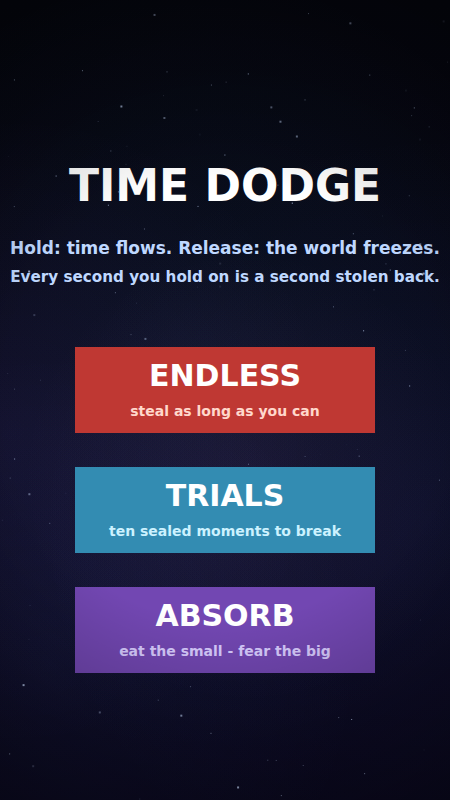
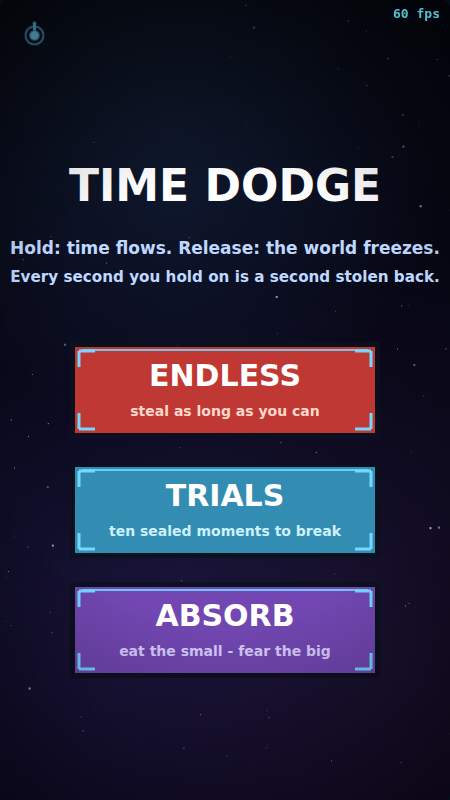
feat(timedodge): realistic particles, starship UI + sfx, heavier collisions
Polish round on the standalone Time Dodge (per the art/UI/feel asks).

Particles (engine.js) — replaced the flat additive squares with two real looks:
soft additive GLOW discs (pre-rendered, tinted+cached per colour) for sparks/
embers/splash, and solid SPINNING bits for confetti/debris, with velocity drag
so they settle. New "debris" preset for impacts. Explosions now read as light +
shrapnel, not squares.

Starship-console UI — mode-select buttons get a consistent sci-fi frame (dark
bezel seat, cyan top hairline, four inward corner brackets) over the colour-coded
faces; text auto-fits so nothing clips. Synthesized console UI sounds in engine.js
(ui_tap / ui_confirm / ui_back — square+harmonic blips, no asset) wired to every
button/menu/card/dialog interaction in timedodge.lua.

Collision feel — death is now a full-force impact: max shake + zoom, a layered
debris+spark burst, strong haptic; near-miss, gate capture and the ABSORB chip
all hit harder (bigger shake, medium/heavy haptic, debris/splash). engine.js
haptic patterns are punchier (heavy = a triple buzz).

All gated where needed so native/web are unaffected: the invariant suite still
passes (144952) and the "debris" preset falls back to spark on the native
particle backend. Standalone bundle rebuilt (~2MB).

Verified headless: framed mode-select, glow+debris death burst, 60fps, no errors.

Claude-Session: https://claude.ai/code/session_01S1VWoFaZm6tKkz28VdLcnu

diff --git a/miniprogram/tiktok-lua/engine.js b/miniprogram/tiktok-lua/engine.js
@@ -42,18 +42,22 @@
   var STARS = makeStars(140);
   var NEBULA = makeNebula(5);
 
-  // ---- particles (native parity: presets + 512 cap) -------------------------
+  // ---- particles ------------------------------------------------------------
+  // Two looks: soft additive GLOW discs (sparks/embers/splash — real light) and
+  // solid spinning BITS (confetti/debris). Presets carry native's 4 names plus a
+  // grey "debris" burst for impacts. drag slows them so they settle, not fly flat.
   var PCAP = 512, parts = [];
   var PRESETS = {
-    spark:    { speed: [180, 320], grav: -300, ttl: 0.40, size: 5, up: false, count: 16,
-                cols: [[1.0, 0.8, 0.3], [1.0, 0.55, 0.2]] },
-    dust:     { speed: [30, 90],   grav: -60,  ttl: 0.70, size: 4, up: false, count: 14,
+    spark:    { speed: [200, 360], grav: -260, drag: 2.2, ttl: 0.45, size: 6, up: false, count: 18, glow: true,
+                cols: [[1, 0.85, 0.35], [1, 0.6, 0.2], [1, 0.95, 0.7]] },
+    dust:     { speed: [30, 100],  grav: -40,  drag: 1.6, ttl: 0.80, size: 7, up: false, count: 14, glow: true,
                 cols: [[0.62, 0.55, 0.45], [0.72, 0.66, 0.55]] },
-    confetti: { speed: [120, 260], grav: -220, ttl: 1.20, size: 6, up: true,  count: 20,
-                cols: [[0.95, 0.35, 0.45], [0.35, 0.75, 0.95], [0.95, 0.85, 0.35],
-                       [0.55, 0.9, 0.5], [0.8, 0.5, 0.95]] },
-    splash:   { speed: [140, 280], grav: -500, ttl: 0.50, size: 4, up: true,  count: 18,
+    confetti: { speed: [140, 300], grav: -260, drag: 0.6, ttl: 1.30, size: 7, up: true,  count: 24, glow: false,
+                cols: [[0.95, 0.35, 0.45], [0.35, 0.75, 0.95], [0.95, 0.85, 0.35], [0.55, 0.9, 0.5], [0.8, 0.5, 0.95]] },
+    splash:   { speed: [150, 300], grav: -460, drag: 1.0, ttl: 0.55, size: 5, up: true,  count: 20, glow: true,
                 cols: [[0.5, 0.75, 0.95], [0.7, 0.88, 1.0]] },
+    debris:   { speed: [120, 320], grav: -360, drag: 1.2, ttl: 0.70, size: 5, up: false, count: 16, glow: false,
+                cols: [[0.72, 0.74, 0.80], [0.55, 0.57, 0.62], [0.88, 0.88, 0.94]] },
   };
   function emit(preset, x, y, count) {
     var p = PRESETS[preset] || PRESETS.spark;
@@ -63,7 +67,9 @@
       var sp = p.speed[0] + Math.random() * (p.speed[1] - p.speed[0]);
       var c = p.cols[(Math.random() * p.cols.length) | 0];
       parts.push({ x: x, y: y, vx: Math.cos(ang) * sp, vy: Math.sin(ang) * sp,
-        life: p.ttl, ttl: p.ttl, size: p.size, r: c[0], g: c[1], b: c[2], grav: p.grav });
+        life: p.ttl, ttl: p.ttl, size: p.size * (0.7 + 0.6 * Math.random()),
+        r: c[0], g: c[1], b: c[2], grav: p.grav, drag: p.drag || 0, glow: p.glow,
+        rot: Math.random() * 6.28, spin: (Math.random() * 2 - 1) * 8 });
     }
   }
   function stepParticles(dt) {
@@ -71,8 +77,34 @@
       var p = parts[i];
       p.life -= dt;
       if (p.life <= 0) { parts.splice(i, 1); continue; }
-      p.vy += p.grav * dt; p.x += p.vx * dt; p.y += p.vy * dt;
+      var d = 1 - Math.min(0.9, (p.drag || 0) * dt);
+      p.vx *= d; p.vy = p.vy * d + p.grav * dt;
+      p.x += p.vx * dt; p.y += p.vy * dt; p.rot += p.spin * dt;
     }
+  }
+
+  // Soft glow disc, pre-rendered once and tinted+cached per quantized colour so
+  // particles read as real light rather than flat squares.
+  var GLOW = document.createElement('canvas'); GLOW.width = GLOW.height = 64;
+  (function () {
+    var g = GLOW.getContext('2d');
+    var rg = g.createRadialGradient(32, 32, 0, 32, 32, 32);
+    rg.addColorStop(0, 'rgba(255,255,255,1)');
+    rg.addColorStop(0.35, 'rgba(255,255,255,0.6)');
+    rg.addColorStop(1, 'rgba(255,255,255,0)');
+    g.fillStyle = rg; g.fillRect(0, 0, 64, 64);
+  })();
+  var glowCache = {};
+  function glowFor(r, g, b) {
+    var key = ((r * 5) | 0) + '_' + ((g * 5) | 0) + '_' + ((b * 5) | 0);
+    if (glowCache[key]) return glowCache[key];
+    var c = document.createElement('canvas'); c.width = c.height = 64;
+    var cx = c.getContext('2d');
+    cx.drawImage(GLOW, 0, 0);
+    cx.globalCompositeOperation = 'source-in';
+    cx.fillStyle = 'rgb(' + (r * 255 | 0) + ',' + (g * 255 | 0) + ',' + (b * 255 | 0) + ')';
+    cx.fillRect(0, 0, 64, 64);
+    glowCache[key] = c; return c;
   }
 
   // ---- audio (Web Audio; sfx overlap+dedup, one music loop, one voice) ------
@@ -103,11 +135,32 @@
     if (!ensureAudio()) return;
     if (sfxPlayedThisFrame[name]) return;                 // dedup identical within a frame
     sfxPlayedThisFrame[name] = true;
+    if (name.slice(0, 2) === 'ui') { synthUi(name); return; }   // synthesized console blip
     getBuffer(name, function (b) {
       var s = actx.createBufferSource(); s.buffer = b;
       var g = actx.createGain(); g.gain.value = vol.sfx;
       s.connect(g); g.connect(actx.destination); s.start();
     });
+  }
+  // Sci-fi UI sounds, synthesized (no asset) — a starship-console blip for taps,
+  // a rising chime for confirm, a falling one for back. ui_tap/ui/ui_confirm/ui_back.
+  function synthUi(name) {
+    var t = actx.currentTime, dur, f0, f1;
+    if (name === 'ui_back') { f0 = 540; f1 = 300; dur = 0.10; }
+    else if (name === 'ui_confirm') { f0 = 480; f1 = 900; dur = 0.15; }
+    else { f0 = 680; f1 = 940; dur = 0.07; }              // ui / ui_tap
+    function tone(type, mul, gain) {
+      var o = actx.createOscillator(), g = actx.createGain();
+      o.type = type;
+      o.frequency.setValueAtTime(f0 * mul, t);
+      o.frequency.exponentialRampToValueAtTime(f1 * mul, t + dur);
+      g.gain.setValueAtTime(0.0001, t);
+      g.gain.exponentialRampToValueAtTime(gain * vol.sfx, t + 0.006);
+      g.gain.exponentialRampToValueAtTime(0.0001, t + dur);
+      o.connect(g); g.connect(actx.destination); o.start(t); o.stop(t + dur + 0.02);
+    }
+    tone('square', 1, 0.16);
+    tone('triangle', 2, 0.05);                            // a harmonic for "console" timbre
   }
   function playMusic(name) {
     if (!ensureAudio()) return;
@@ -280,7 +333,16 @@
     emit: function (L) { emit(str(L, 1), num(L, 2), num(L, 3), opt(L, 4, 0)); return 0; },
     set_bg_theme: function (L) { bg.theme = num(L, 1) | 0; return 0; },
     space_mode: function (L) { bg.space = lua.lua_toboolean(L, 1) ? true : false; return 0; },
-    haptic: function (L) { if (navigator.vibrate) { var s = str(L, 1); navigator.vibrate(s === 'heavy' ? 30 : s === 'medium' ? 18 : s === 'success' ? [12, 40, 12] : 10); } return 0; },
+    haptic: function (L) {
+      if (navigator.vibrate) {
+        var s = str(L, 1);
+        // Punchier patterns so impacts read on the body, not just the eyes.
+        var pat = s === 'heavy' ? [40, 25, 30] : s === 'medium' ? 22
+          : s === 'success' ? [15, 30, 15, 30, 22] : 12;
+        try { navigator.vibrate(pat); } catch (e) {}
+      }
+      return 0;
+    },
 
     // ---- audio ----
     play_sound: function (L) { playSound(str(L, 1)); return 0; },
@@ -528,16 +590,29 @@
       ctx.restore();
     }
 
-    // particles (additive glow) — in the same camera space
+    // particles — pass 1: additive glow discs; pass 2: solid spinning bits
     if (parts.length) {
+      var k, p, a, px, py;
       ctx.globalCompositeOperation = 'lighter';
-      for (var k = 0; k < parts.length; k++) {
-        var p = parts[k], a = Math.max(0, p.life / p.ttl);
-        ctx.fillStyle = col(p.r, p.g, p.b, a);
-        var px = toX(p.x), py = toY(p.y), sz = p.size * (0.5 + 0.5 * a);
-        ctx.fillRect(px - sz / 2, py - sz / 2, sz, sz);
+      for (k = 0; k < parts.length; k++) {
+        p = parts[k]; if (!p.glow) continue;
+        a = Math.max(0, p.life / p.ttl);
+        px = toX(p.x); py = toY(p.y);
+        var gz = p.size * (1.4 + 1.6 * (1 - a));      // bloom out as it fades
+        ctx.globalAlpha = a;
+        ctx.drawImage(glowFor(p.r, p.g, p.b), px - gz, py - gz, gz * 2, gz * 2);
       }
       ctx.globalCompositeOperation = 'source-over';
+      for (k = 0; k < parts.length; k++) {
+        p = parts[k]; if (p.glow) continue;
+        a = Math.max(0, p.life / p.ttl);
+        px = toX(p.x); py = toY(p.y);
+        ctx.globalAlpha = Math.min(1, a * 1.6);
+        ctx.fillStyle = col(p.r, p.g, p.b, 1);
+        ctx.save(); ctx.translate(px, py); ctx.rotate(p.rot);
+        ctx.fillRect(-p.size / 2, -p.size / 2, p.size, p.size * 0.62); ctx.restore();
+      }
+      ctx.globalAlpha = 1;
     }
     ctx.restore();
 
